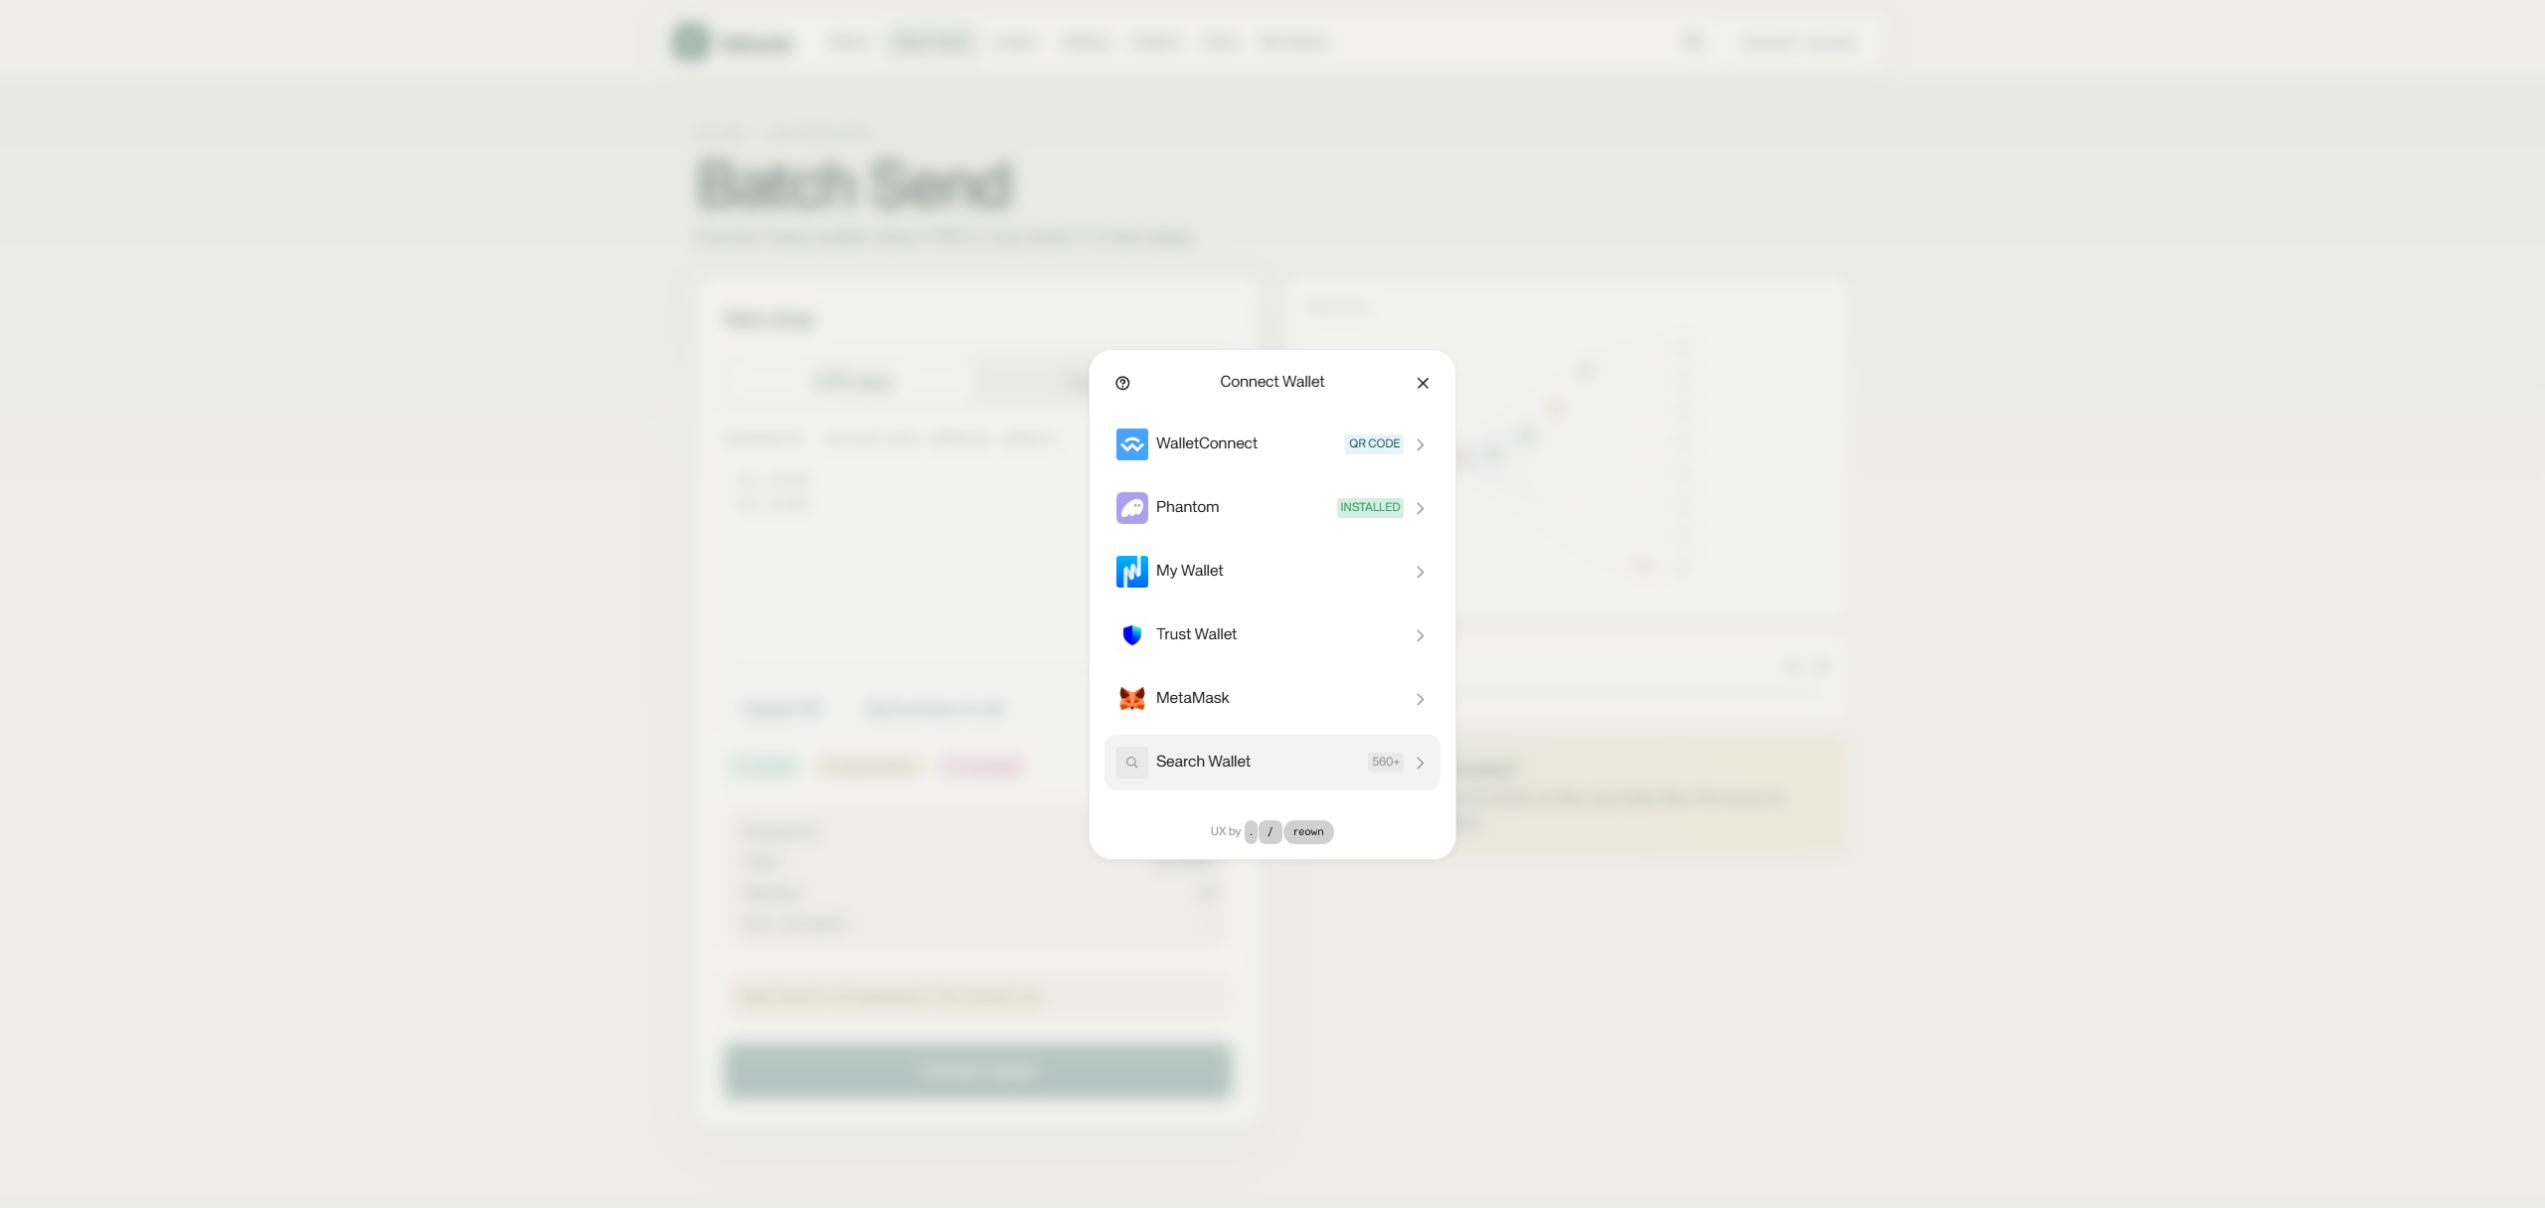
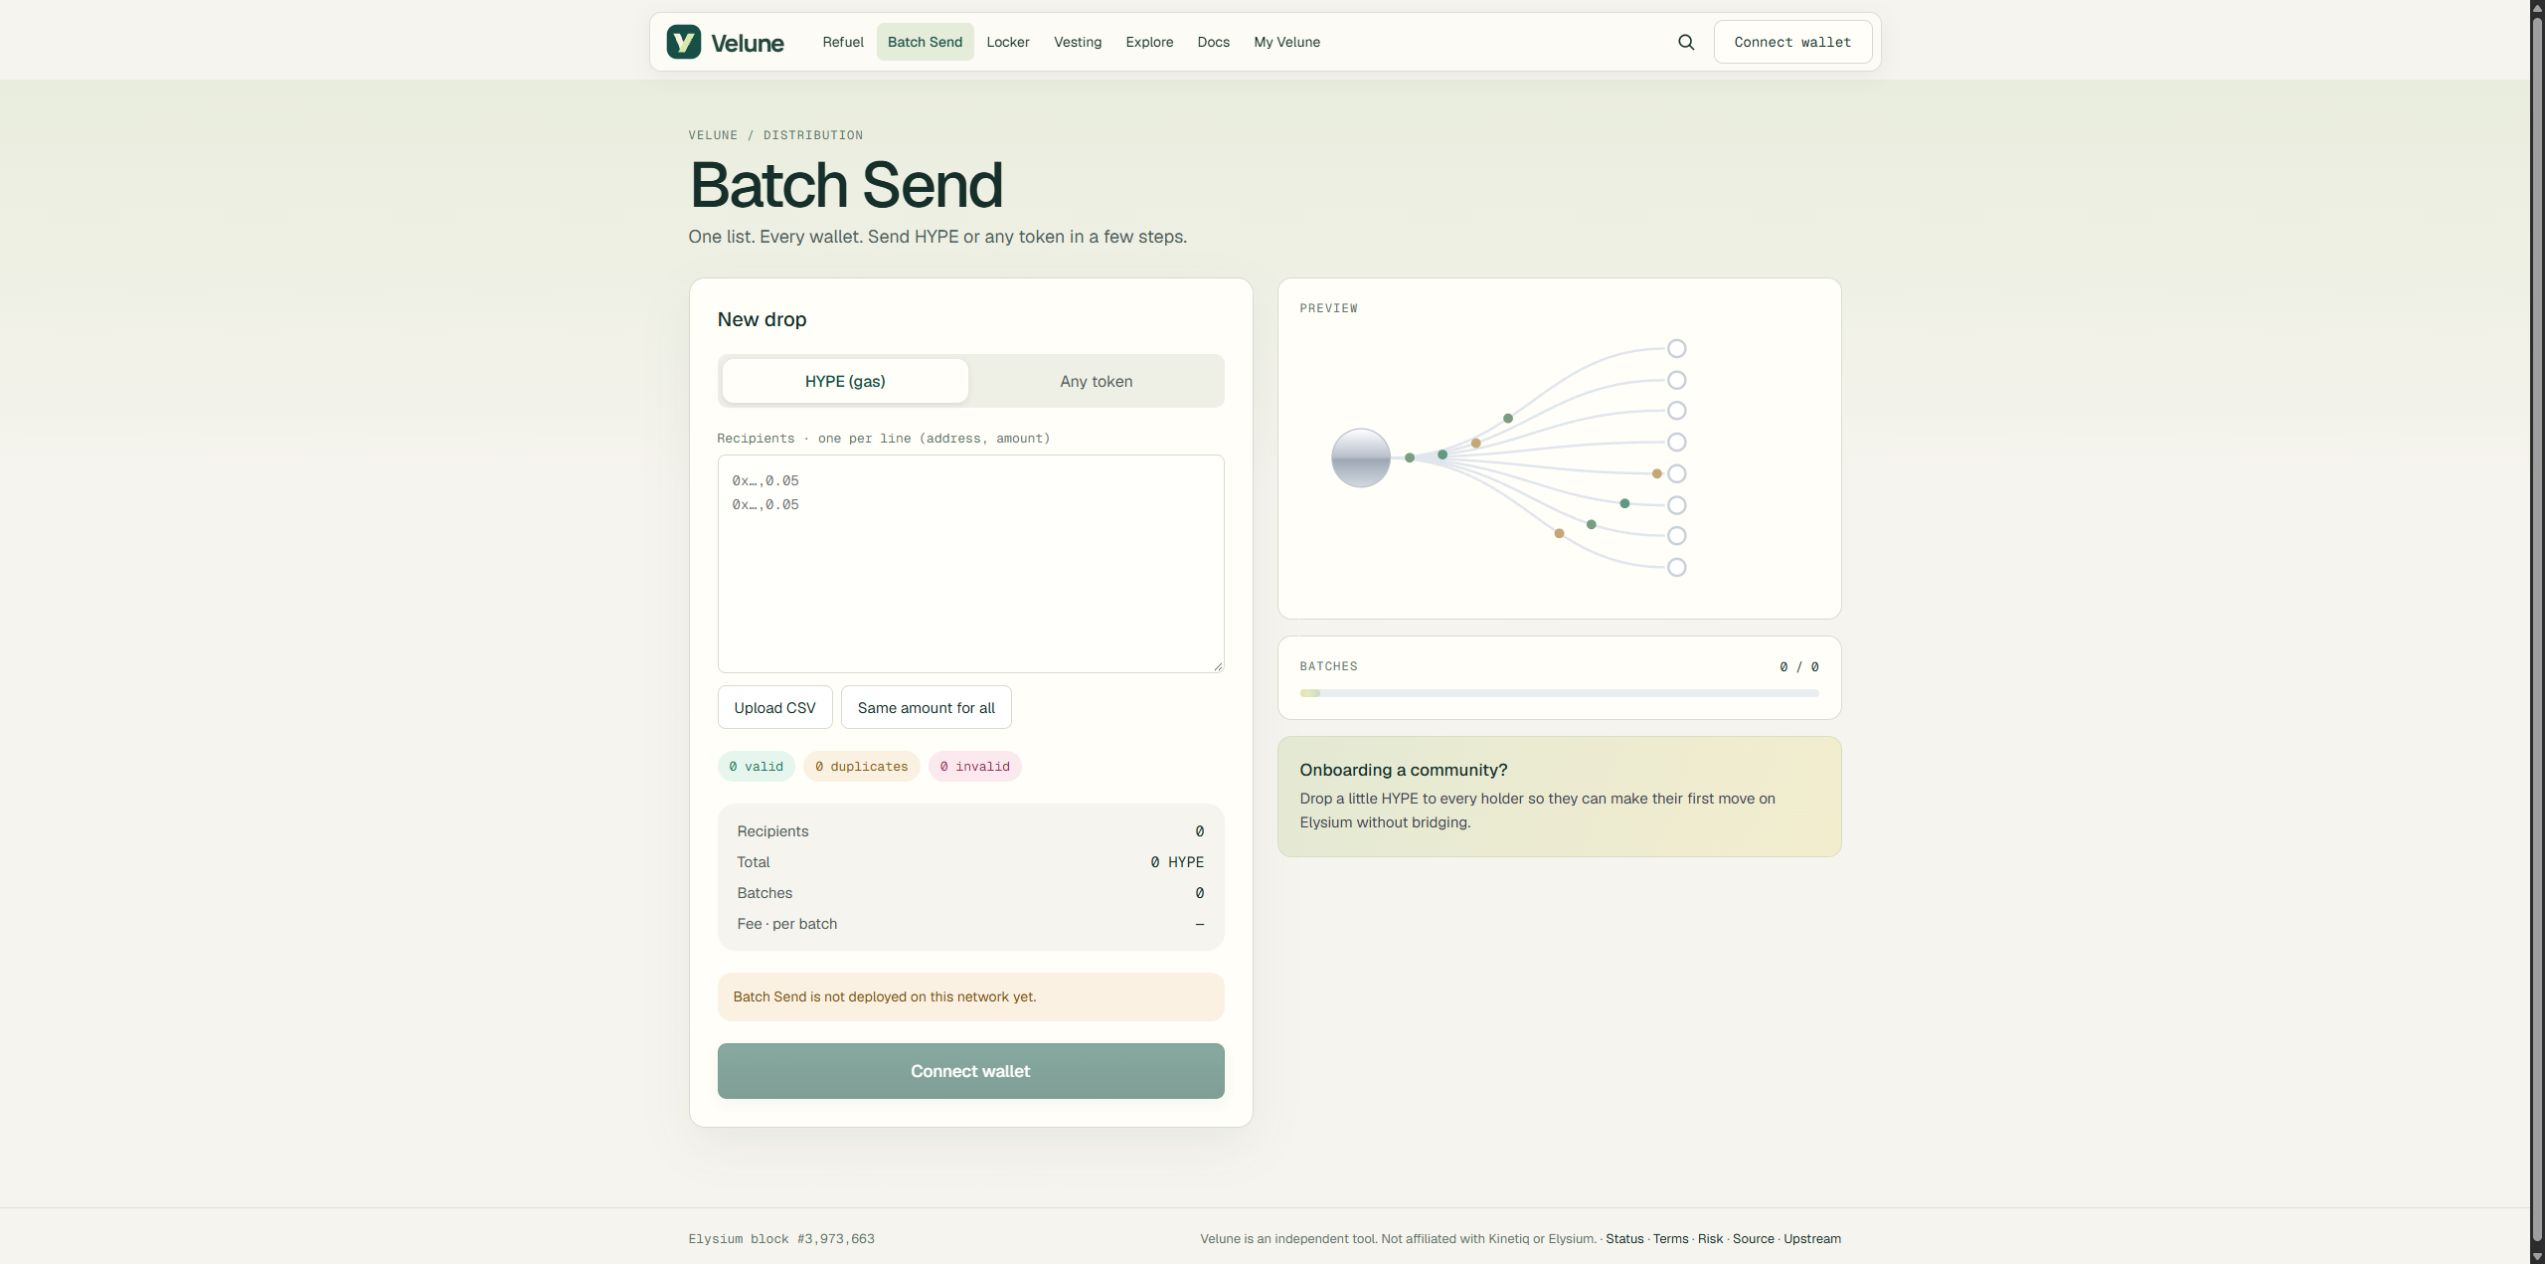
Refresh Batch Send preview and image guide

diff --git a/assets/README.md b/assets/README.md
@@ -1,6 +1,6 @@
 # Velune visual guide
 
-These images accompany the [product guide](../README.md) and its [Russian edition](../README.ru.md).
+These images accompany the [product guide](../README.md).
 
 - `cover.png` — Velune brand cover.
 - `overview.jpg` — desktop overview of the product modules.
